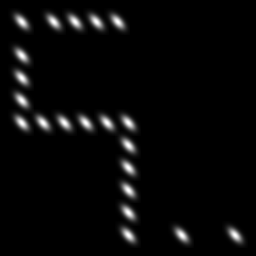
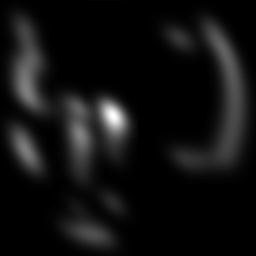
Limit lidar range and inital param tune

diff --git a/src/slam/slam.cc b/src/slam/slam.cc
@@ -96,7 +96,7 @@ void SLAM::ObserveLaser(const sensor_msgs::LaserScan& msg) {
   predicted_pose.pprint("ExecCSM: predicted pose:");
   cout << "transform to global frame and add to map " << endl;
   tf::transform_points_to_glob_frame(predicted_pose, curr_scan, curr_scan_map_frame);
-  cout << "Transfrmed scan size:" << curr_scan_map_frame.size() << endl;
+  cout << "Transformed scan size:" << curr_scan_map_frame.size() << endl;
   map_.insert(std::end(map_),std::begin(curr_scan_map_frame),std::end(curr_scan_map_frame));
   cout << "new map size:" << map_.size()<<endl;
 
@@ -153,7 +153,7 @@ PoseSE2 SLAM::ExecCSM(const vector<Vector2f>& curr_scan) {
             prev_scan_,
             params_.sigma_rasterizer);
 
-    float scale_factor = 1;
+    float scale_factor = 2;
     float x_start,x_end,
           y_start,y_end,
           theta_start,theta_end;
@@ -267,10 +267,10 @@ void SLAM::CalcCSMCube(float scale_factor,
 
     start_x = curr_pose_mean.loc.x() - scale_factor*sigma_x_y;
     start_y = curr_pose_mean.loc.y() - scale_factor*sigma_x_y;
-    start_theta = curr_pose_mean.angle - scale_factor*sigma_theta;
+    start_theta = curr_pose_mean.angle - 10*scale_factor*sigma_theta;
     end_x = curr_pose_mean.loc.x() + scale_factor*sigma_x_y;
     end_y = curr_pose_mean.loc.y() + scale_factor*sigma_x_y;
-    end_theta = curr_pose_mean.angle + scale_factor*sigma_theta;
+    end_theta = curr_pose_mean.angle + 10*scale_factor*sigma_theta;
 }
 
 }  // namespace slam

diff --git a/src/slam/slam_main.cc b/src/slam/slam_main.cc
@@ -158,11 +158,13 @@ int main(int argc, char** argv) {
   // Set SLAM params
   slam::SlamParams& params = slam_.getParams();
   params.lidar_range_cutoff = 6;
-  params.k_2 = 0.2;
-  params.k_4 = 0.1;
-  params.k_3 = 0.02;
-  params.radar_downsample_rate = 10;
-  params.sigma_rasterizer <<  0.5, 0.25, 0.25, 0.5;
+  params.k_2 = 1;
+  params.k_2 = 0.4;
+  params.k_4 = 0.5;
+  params.k_3 = 0.5;
+  params.radar_downsample_rate = 15;
+  params.linspace_cube = 20;
+  params.sigma_rasterizer <<  0.1, 0.25, 0.25, 0.5;
 
 
   // Initialize ROS.
